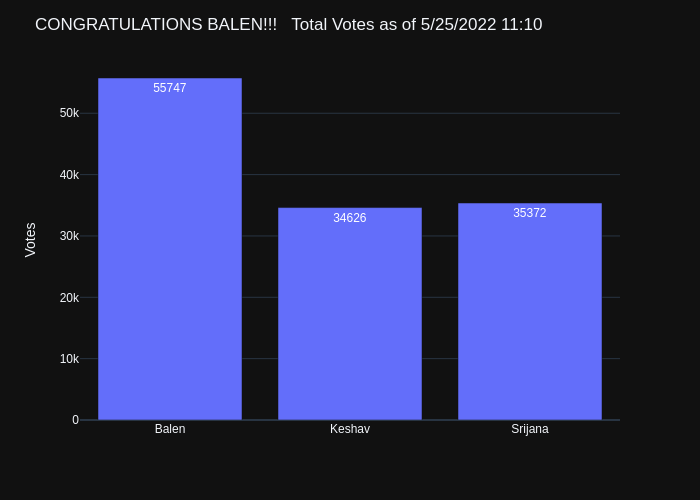
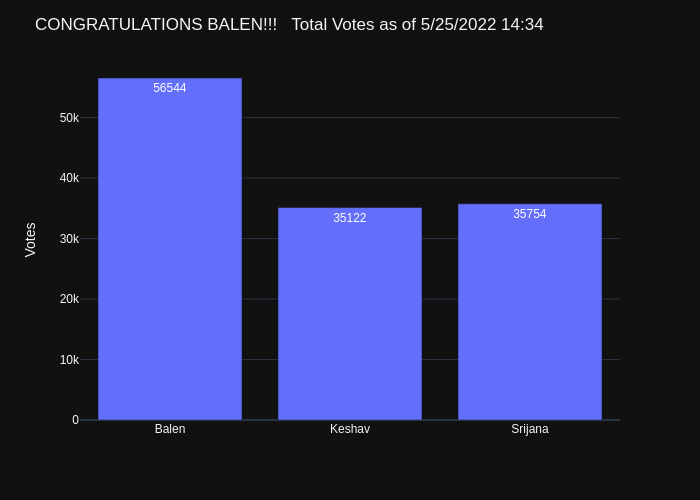
add data

diff --git a/README.md b/README.md
@@ -1,4 +1,4 @@
-## Last Update: 5/25/2022 11:10
+## Last Update: 5/25/2022 14:34
 
 ## Congratulations Balen!!! :tada:
 ![ScreenShot](final.jpg)
